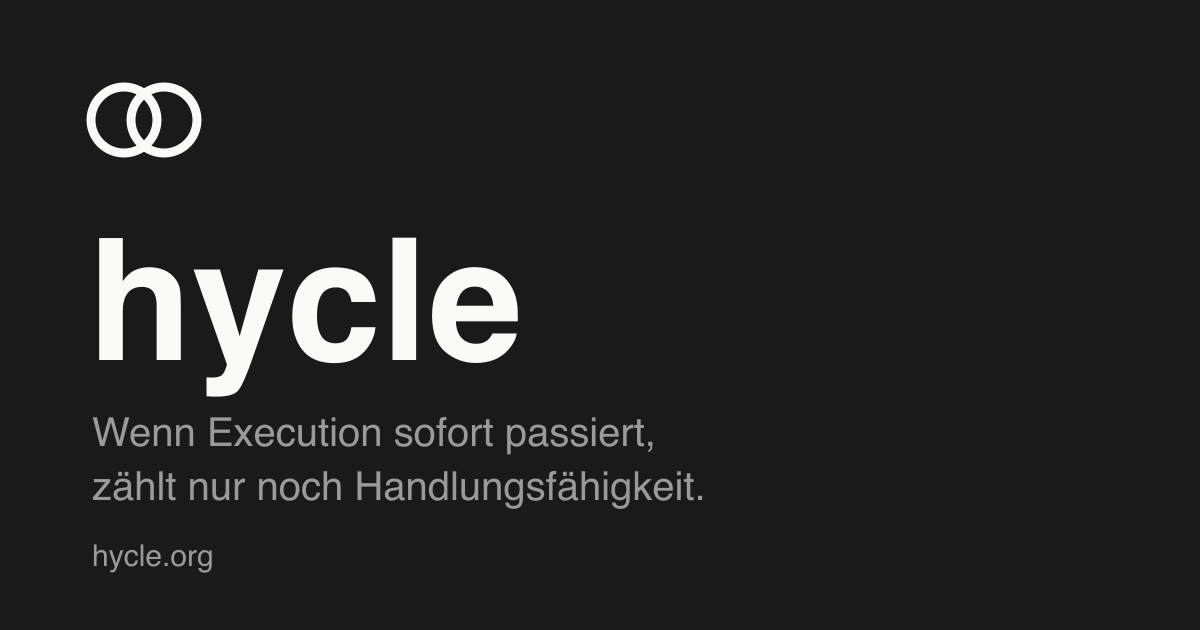
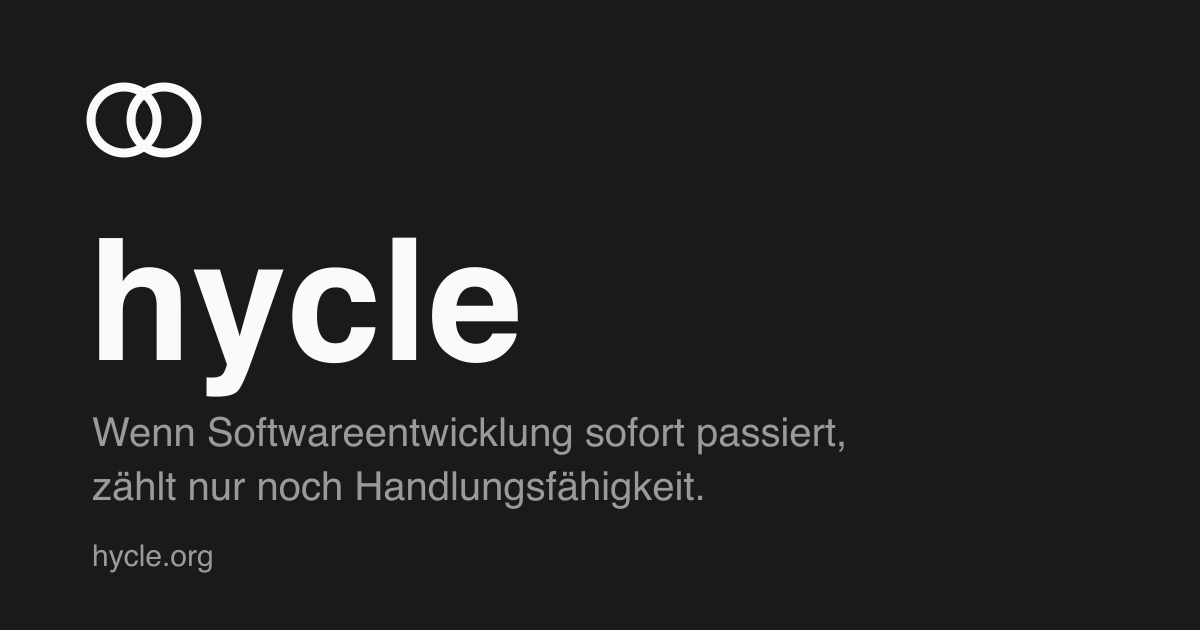
seo: 404 page, JSON-LD, Open Graph details, current claim on og.png, sitemap of canonical pages only
- 404.html (noindex) instead of GitHub's default page, with links to the manifest, changelog and talks
- JSON-LD: WebSite on every page; the manifest as CreativeWork with its six authors, version and licence
- og:site_name, og:locale, og:image size and alt; robots max-image-preview:large
- og.png carried the old claim ("Wenn Execution sofort passiert"); it now matches the page
- sitemap leaves out noindex pages and v7 to v9, whose canonical is /
- talks page linked from the manifest and changelog footers; its footer gains v9; its entry is an h2, styled as before
- llms.txt names the authors and the licence

Frozen versions byte-identical; v1 to v9 render 0 px different at 390 and 1440 px.

Changed region(s): [[0.1542, 0.6635, 0.7092, 0.7238]]

diff --git a/src/body/talks.html b/src/body/talks.html
@@ -11,7 +11,7 @@
       <p class="section-intro">Wir stellen hycle auf Konferenzen und in Meetups vor. Die Folien stehen hier als PDF, so wie sie gezeigt wurden. Sie tragen den Sprechertext nicht, sie zeigen das Gerüst des Vortrags. Was an Erfahrung und Widerspruch aus dem Publikum zurückkommt, arbeiten wir in die nächsten Versionen des Manifests ein.</p>
 
       <div class="observation">
-        <h3>Working Products 2026</h3>
+        <h2>Working Products 2026</h2>
         <p><span class="label">11. September 2026</span> Goldbekhaus Hamburg. Andreas Stephan und Johannes Schmidt.</p>
         <p>Der Vortrag geht das Manifest in seiner Ordnung durch: was wir beobachten, die Diagnose dahinter, die Hypothesen und ein Praxistest aus einem Team. Den Bogen trägt die Diagnose. Die Bauzeit war der heimliche Taktgeber, sie ist verschwunden, die Ausrichtung an ihr ist geblieben. Am Ende steht die Frage an den Raum, ob diese Diagnose dort auch trägt.</p>
         <p><a href="2026-09-11-working-products.pdf">Folien als PDF</a> (40 Seiten, 0,7 MB)</p>
@@ -23,6 +23,6 @@
 <footer>
   <div class="container">
     <p>&copy; 2026 Die hycle-Autoren. Veröffentlicht unter <a href="https://creativecommons.org/licenses/by-sa/4.0/">CC BY-SA 4.0</a>.</p>
-    <p><a href="../index.html">aktuelle Version</a> &middot; <a href="../changelog.html">Changelog</a> &middot; <a href="../versions/v1.html">v1</a> &middot; <a href="../versions/v2.html">v2</a> &middot; <a href="../versions/v3.html">v3</a> &middot; <a href="../versions/v4.html">v4</a> &middot; <a href="../versions/v5.html">v5</a> &middot; <a href="../versions/v6.html">v6</a> &middot; <a href="../versions/v7.html">v7</a> &middot; <a href="../versions/v8.html">v8</a> &middot; <a href="https://github.com/hackersandwizards/hycle">Quelltext auf GitHub</a></p>
+    <p><a href="../index.html">aktuelle Version</a> &middot; <a href="../changelog.html">Changelog</a> &middot; <a href="../versions/v1.html">v1</a> &middot; <a href="../versions/v2.html">v2</a> &middot; <a href="../versions/v3.html">v3</a> &middot; <a href="../versions/v4.html">v4</a> &middot; <a href="../versions/v5.html">v5</a> &middot; <a href="../versions/v6.html">v6</a> &middot; <a href="../versions/v7.html">v7</a> &middot; <a href="../versions/v8.html">v8</a> &middot; <a href="../versions/v9.html">v9</a> &middot; <a href="https://github.com/hackersandwizards/hycle">Quelltext auf GitHub</a></p>
   </div>
 </footer>

diff --git a/src/body/index.html b/src/body/index.html
@@ -530,6 +530,6 @@
 <footer>
   <div class="container">
     <p>&copy; 2026 Die hycle-Autoren. Veröffentlicht unter <a href="https://creativecommons.org/licenses/by-sa/4.0/">CC BY-SA 4.0</a>.</p>
-    <p><a href="changelog.html">Changelog</a> &middot; <a href="versions/v1.html">v1</a> &middot; <a href="versions/v2.html">v2</a> &middot; <a href="versions/v3.html">v3</a> &middot; <a href="versions/v4.html">v4</a> &middot; <a href="versions/v5.html">v5</a> &middot; <a href="versions/v6.html">v6</a> &middot; <a href="versions/v7.html">v7</a> &middot; <a href="versions/v8.html">v8</a> &middot; <a href="versions/v9.html">v9</a> &middot; <a href="https://github.com/hackersandwizards/hycle">Quelltext auf GitHub</a></p>
+    <p><a href="changelog.html">Changelog</a> &middot; <a href="talks/">Vorträge</a> &middot; <a href="versions/v1.html">v1</a> &middot; <a href="versions/v2.html">v2</a> &middot; <a href="versions/v3.html">v3</a> &middot; <a href="versions/v4.html">v4</a> &middot; <a href="versions/v5.html">v5</a> &middot; <a href="versions/v6.html">v6</a> &middot; <a href="versions/v7.html">v7</a> &middot; <a href="versions/v8.html">v8</a> &middot; <a href="versions/v9.html">v9</a> &middot; <a href="https://github.com/hackersandwizards/hycle">Quelltext auf GitHub</a></p>
   </div>
 </footer>

diff --git a/src/body/404.html b/src/body/404.html
@@ -1,0 +1,22 @@
+<header class="hero">
+  <div class="container">
+    <h1 class="hero-title"><a href="/">hycle</a></h1>
+    <p class="hero-tagline">Seite nicht gefunden</p>
+  </div>
+</header>
+
+<main>
+  <section class="section">
+    <div class="container">
+      <p class="section-intro">Diese Seite gibt es nicht oder nicht mehr. Weiter geht es hier:</p>
+      <p><a href="/">Zum Manifest</a> &middot; <a href="/changelog.html">Changelog</a> &middot; <a href="/talks/">Vorträge</a></p>
+    </div>
+  </section>
+</main>
+
+<footer>
+  <div class="container">
+    <p>&copy; 2026 Die hycle-Autoren. Veröffentlicht unter <a href="https://creativecommons.org/licenses/by-sa/4.0/">CC BY-SA 4.0</a>.</p>
+    <p><a href="https://github.com/hackersandwizards/hycle">Quelltext auf GitHub</a></p>
+  </div>
+</footer>

diff --git a/src/body/changelog.html b/src/body/changelog.html
@@ -357,6 +357,6 @@
 <footer>
   <div class="container">
     <p>&copy; 2026 Die hycle-Autoren. Ver&ouml;ffentlicht unter <a href="https://creativecommons.org/licenses/by-sa/4.0/">CC BY-SA 4.0</a>.</p>
-    <p><a href="index.html">Zur&uuml;ck zum Manifest</a> &middot; <a href="https://github.com/hackersandwizards/hycle">Quelltext auf GitHub</a></p>
+    <p><a href="index.html">Zur&uuml;ck zum Manifest</a> &middot; <a href="talks/">Vortr&auml;ge</a> &middot; <a href="https://github.com/hackersandwizards/hycle">Quelltext auf GitHub</a></p>
   </div>
 </footer>

diff --git a/public/style.css b/public/style.css
@@ -153,12 +153,14 @@ body {
   padding-bottom: 0;
 }
 
+.observation h2,
 .observation h3 {
   font-family: var(--font-heading);
   font-size: 1.1rem;
   font-weight: 600;
   margin-bottom: 0.5rem;
   line-height: 1.4;
+  letter-spacing: inherit;
 }
 
 .observation p {
